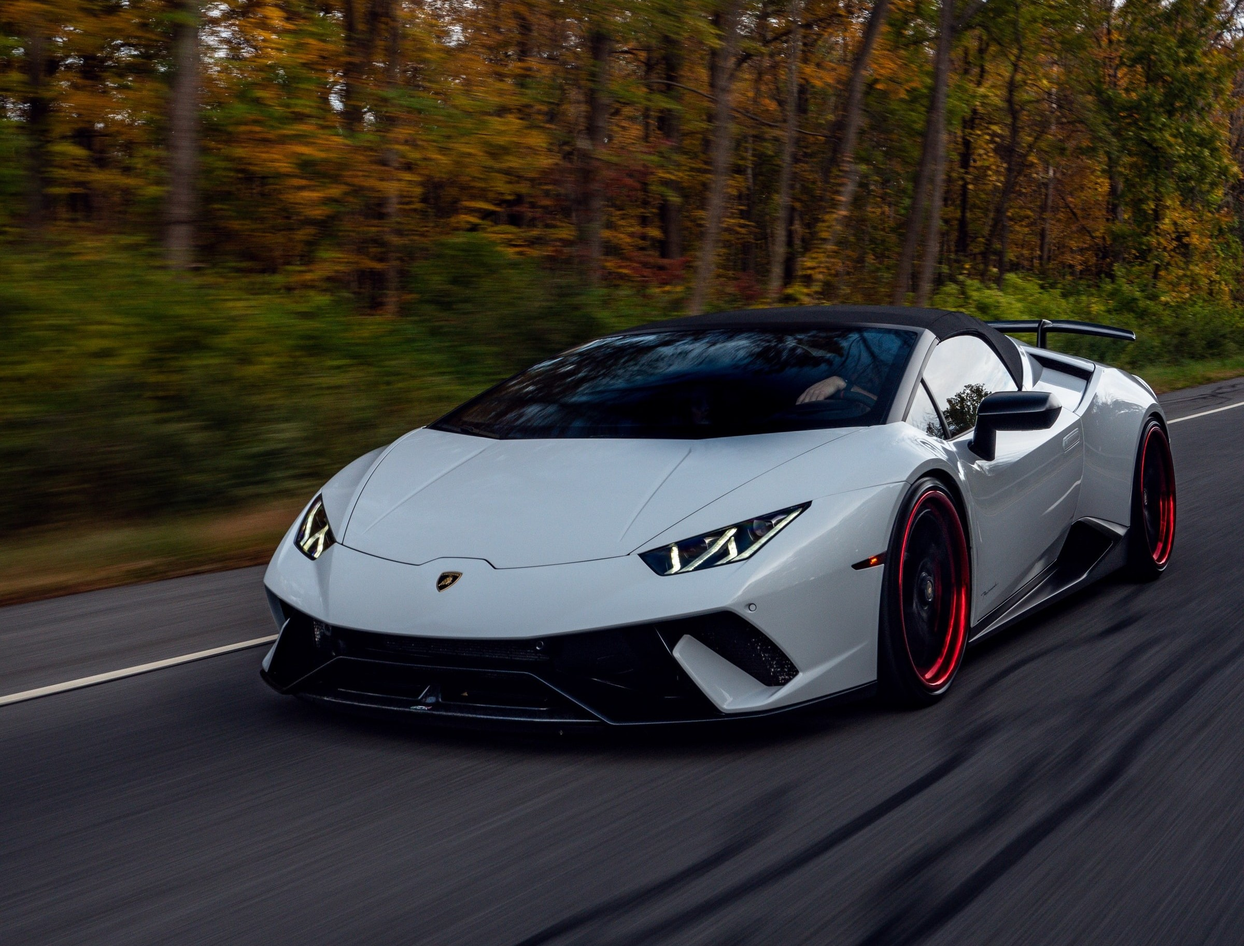
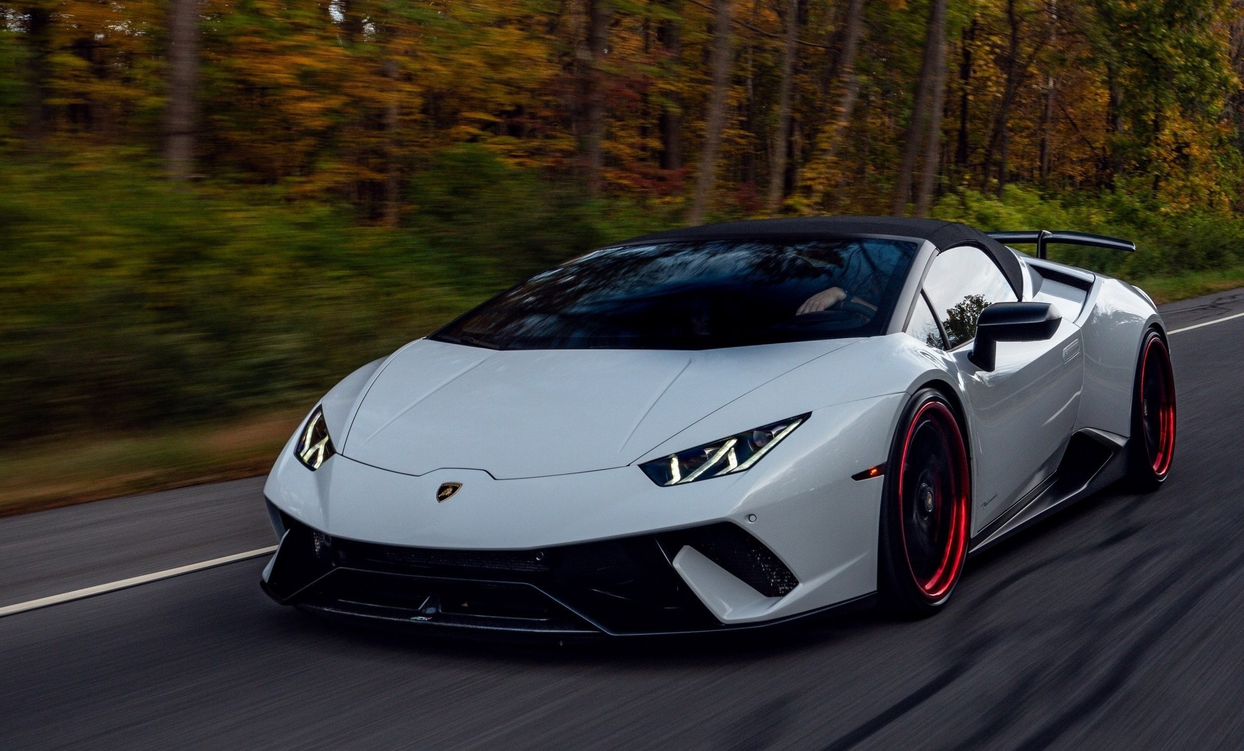
Replace the hero image to smaller size and add css styling to hero section.

diff --git a/assets/css/style.css b/assets/css/style.css
@@ -79,24 +79,33 @@ h1, h2, h3, h4, p {
     height: auto;
 }
 
-/* hero section */
+/* hero section. Some codes are taken from Love Running project */
 #hero-container {
     width: 100%;
     position: relative;
-
 }
 
 #hero-image {
-    background: url("../images/lamwhitehero.jpg" );
+    background: url("../images/lamwhitehero.jpg") no-repeat center center;
     max-width: 100%;
     height: 900px;
     background-size: cover;
-    background-position: center;
-    overflow: hidden;
-    
+    overflow: hidden; 
 }
 
+.hero-text {
+    font-size: 300%;
+    font-weight: bold;
+    padding: 30px;
+    margin: 50px 0 0 100px;
+    position: absolute;
+}
 
+.hero-text h1 {
+    letter-spacing: 5px;
+    text-transform: uppercase;
+    line-height: 110px;
+}
 
 
 
